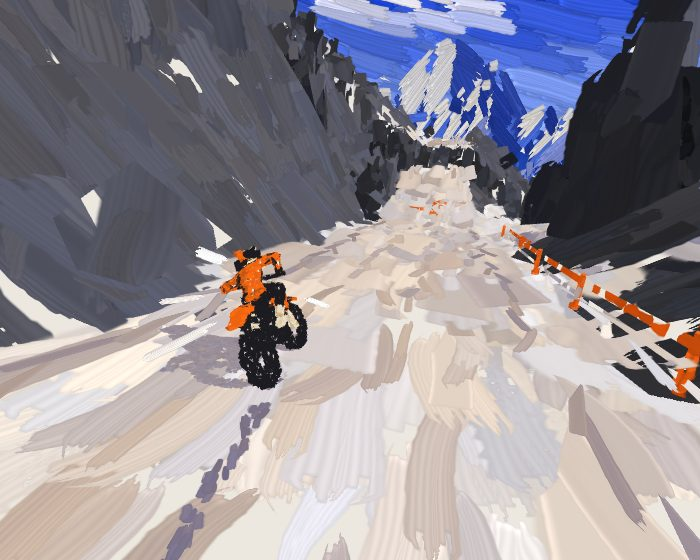
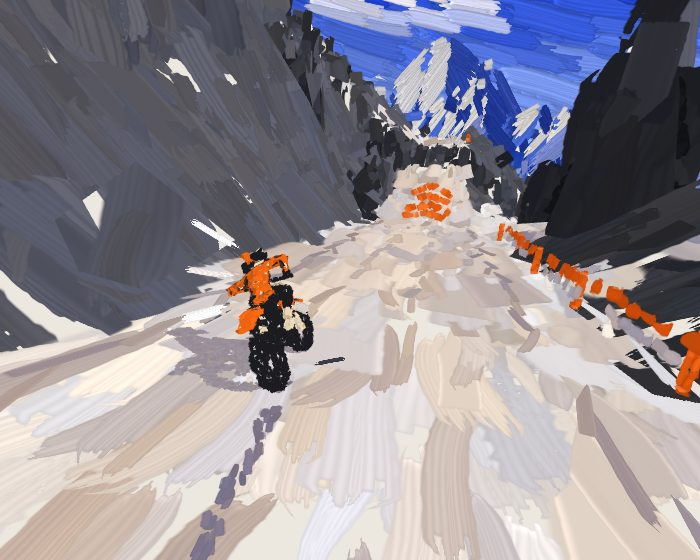
lab/switchback: things claim no depth or stencil, painted over what's behind
Fence, poles, pines, boards, flags and falls no longer occlude: no paper
holes where their strokes don't cover. Chunk strokes ordered ground, way,
things; things laid with the masses front.

Claude-Session: https://claude.ai/code/session_01XxjdrEubiC3ZZ3ppUeUc93

diff --git a/cells/lab/client/switchback/render.ts b/cells/lab/client/switchback/render.ts
@@ -17,7 +17,7 @@ import type { Rider, Event } from './sim';
 import { GEARS } from './audio';
 import { buildRuts, Trail } from './ruts';
 import { buildGouges } from './gouge';
-import { Painter, Strokes, Brush2D, strokesOver, skyStrokes, lineOf, courseStrokes, rangeStrokes, foothillStrokes, valleyStrokes, fallStrokes, flagStrokes } from './paint';
+import { STROKE, Painter, Strokes, Brush2D, strokesOver, skyStrokes, lineOf, courseStrokes, rangeStrokes, foothillStrokes, valleyStrokes, fallStrokes, flagStrokes } from './paint';
 
 const VS = `#version 300 es
 in vec4 aP; uniform mat4 uVP; uniform vec3 uOff; uniform float uZj; out vec3 vW; flat out int vM;
@@ -32,8 +32,11 @@ void main() { vec3 w = aP.xyz + uOff; vW = w - uEye; vM = int(aP.w); vT = fract(
   gl_Position.z += uZj * fract(float(gl_VertexID / 3) * .618) * gl_Position.w; }`;
 const FS = `#version 300 es
 precision highp float;
-in vec3 vW; flat in int vM; flat in float vT; uniform vec3 uPal[88]; uniform vec3 uEye; uniform vec3 uSun; uniform float uFog; out vec4 o;
+in vec3 vW; flat in int vM; flat in float vT; uniform vec3 uPal[88]; uniform vec3 uEye; uniform vec3 uSun; uniform float uFog; uniform float uNoThings; out vec4 o;
 void main() {
+  // (painted, the things standing on the ground (the fence, the poles, the pines, a kicker's boards) claim no depth and no
+  // stencil: what's behind them is painted, and their strokes over it, so a gap between their strokes shows that, not paper)
+  if (uNoThings > .5 && (vM == 3 || vM == 4 || vM == 5 || vM == 11 || vM == 17 || vM == 18 || vM == 19)) discard;
   vec3 n = normalize(cross(dFdx(vW), dFdy(vW)));
   // (the face's light, nudged by its own tone, picks one of its material's four bands)
   float l = dot(n, uSun) + (vT / .9 - .5) * .42;
@@ -119,7 +122,7 @@ export class Renderer {
     const p = gl.createProgram()!; gl.attachShader(p, sh(gl.VERTEX_SHADER, VS)); gl.attachShader(p, sh(gl.FRAGMENT_SHADER, FS)); gl.bindAttribLocation(p, 0, 'aP'); gl.linkProgram(p);
     if (!gl.getProgramParameter(p, gl.LINK_STATUS)) throw new Error(gl.getProgramInfoLog(p) ?? 'link');
     this.prog = p;
-    for (const n of ['uVP', 'uOff', 'uPal', 'uEye', 'uSun', 'uFog', 'uZj']) this.u[n] = gl.getUniformLocation(p, n);
+    for (const n of ['uVP', 'uOff', 'uPal', 'uEye', 'uSun', 'uFog', 'uZj', 'uNoThings']) this.u[n] = gl.getUniformLocation(p, n);
     gl.useProgram(p);
     gl.uniform3fv(this.u.uPal, new Float32Array(PALETTE.flat().map(hex).flat()));
     gl.uniform3fv(this.u.uSun, new Float32Array(SUN));
@@ -138,8 +141,13 @@ export class Renderer {
       const v = buildChunk(this.course, n);
       this.chunks.set(n, new Buf(this.gl, v)); budget--;
       if (this.painter) {
-        const face = strokesOver(v, this.course.seed * 1009 + n, lineOf(this.course, n * CHUNK - 6, (n + 1) * CHUNK + 6)), way = courseStrokes(this.course, n * CHUNK, (n + 1) * CHUNK), all = new Float32Array(face.length + way.length);
-        all.set(face); all.set(way, face.length);
+        const face = strokesOver(v, this.course.seed * 1009 + n, lineOf(this.course, n * CHUNK - 6, (n + 1) * CHUNK + 6)), way = courseStrokes(this.course, n * CHUNK, (n + 1) * CHUNK);
+        // (the ground's strokes and the way's first, then the things' over them: the things hold no depth, so they're
+        // painted over what's behind them by order)
+        const G: number[] = [], Th: number[] = [];
+        for (let k = 0; k < face.length; k += STROKE) (face[k + 15] > 2.5 ? Th : G).push(...face.subarray(k, k + STROKE));
+        const all = new Float32Array(G.length + way.length + Th.length);
+        all.set(G); all.set(way, G.length); all.set(Th, G.length + way.length);
         this.strokes.set(n, this.painter.make(all));
       }
     }
@@ -202,7 +210,9 @@ export class Renderer {
       const paper = hex(PAPER); gl.clearColor(paper[0], paper[1], paper[2], 1); gl.clearStencil(0); gl.clear(gl.COLOR_BUFFER_BIT | gl.STENCIL_BUFFER_BIT);
       pt.advance(r.s);
       const off = [view.eye[0], view.eye[1] - 60, view.eye[2]];
-      const near = () => { if (this.bgOnly) return; gl.uniform3f(this.u.uOff, 0, 0, 0); for (const b of this.chunks.values()) b.draw(); this.rider.set(body, true); this.rider.draw(); this.flags.set(flagsV, true); this.flags.draw(); this.falls.set(fallsV, true); this.falls.draw(); };
+      // (the ground and the rider (whose strokes, on both sides of it, need its own depth to hide its far side): the things
+      // on the ground, the flags and the falls claim no depth or stencil)
+      const near = () => { if (this.bgOnly) return; gl.uniform3f(this.u.uOff, 0, 0, 0); gl.uniform1f(this.u.uNoThings, 1); for (const b of this.chunks.values()) b.draw(); gl.uniform1f(this.u.uNoThings, 0); this.rider.set(body, true); this.rider.draw(); };
       // (where things stand, in the stencil: 2 the backdrop, 1 anything near; nothing drawn)
       gl.colorMask(false, false, false, false); gl.disable(gl.DEPTH_TEST); gl.enable(gl.STENCIL_TEST); gl.stencilOp(gl.KEEP, gl.KEEP, gl.REPLACE); gl.stencilFunc(gl.ALWAYS, 2, 0xff);
       gl.uniform1f(this.u.uFog, 0); gl.uniform3f(this.u.uOff, off[0], off[1], off[2]); this.ranges.draw(); this.valley.draw();

diff --git a/cells/lab/client/switchback/paint.ts b/cells/lab/client/switchback/paint.ts
@@ -197,7 +197,7 @@ export function strokesOver(verts: Float32Array, seed: number, line: number[] | 
       // (a flat thing lying on the ground (your track, a shadow) is laid as the ground is: flat on it, one side; a
       // standing thing, both sides, turning to the eye)
       if (flat && ny < 0) { nx = -nx; ny = -ny; nz = -nz; }
-      emit(e[0] / el, e[1] / el, e[2] / el, Ls, Ls * (flat ? 0.35 : 0.5), flat ? 2.2 : 3.2, 1, flat ? [0, 1, 11] : [0, 1, 2, 4, 8, 15], 0.35, flat ? 0.2 : 0.4, flat ? 0 : 3);
+      emit(e[0] / el, e[1] / el, e[2] / el, Ls, Ls * (flat ? 0.35 : 0.5), flat ? 2.2 : 3.2, 0, flat ? [0, 1, 11] : [0, 1, 2, 4, 8, 15], 0.35, flat ? 0.2 : 0.4, flat ? 0 : 3);
       continue;
     }
     // (the face's normal: up, or (a steep face) toward the road it's seen from)

diff --git a/cells/lab/static/switchback.md b/cells/lab/static/switchback.md
@@ -119,6 +119,7 @@ An experiment in drawing the mountain as paint, after looking closely at a brush
 - **Nothing pops.** A stroke whose turn to be thinned out with distance comes shrinks away rather than going at once. What's built afresh each frame keeps its strokes: the rider by its faces, the flags and the falls by where they are; the gouges aren't painted (they're cut to the eye, so their faces change as you ride), the road's own strokes running along it instead.
 - **The speed in the marks, near the eye.** Within about 14 m of the eye (gone by 30 m), at pace every stroke turns, on its own face, toward the way the eye is going and draws out by as far as the eye goes in a moment (the eye's smoothed motion in the world: one way for every stroke, so they hold steady), so the ground and the rock just round you fall into line and stream past; further off the subject alone lays each stroke (`stretch=0` none, `stretch=2` twice). Your track and the rider's shadow are laid flat, as the ground is. The shadow lies on the road ahead and behind where it falls, not on a level plane at the rider's feet (which a slope going away left standing in the air).
 - **Strokes the course calls for.** Laid deliberately from the course, not scattered over faces, each lying on the surface (its normal the surface's own there): the road's two edges in long strokes following it, the drop's lip as a lit edge of snow, and the **ruts**, the worn lines down the road as `ruts.ts` has them, a step darker than the road (the gouges, cut to the eye each frame, can't be painted; these are the same lines, fixed to the course). No wall-foot shade: those strokes spiked out of the slope rather than lying on it. The rider's shadow is painted, flat on the road where it falls.
+- **No occlusion holes.** Only the ground and the rider claim depth and the stencil. The things standing on the ground (the fence, the poles, the pines, a kicker's boards), the flags and the falls claim neither: what's behind them is painted (the ground, the ranges, the sky), and their strokes over it, so a gap between their strokes shows what's behind, never paper. In each chunk the ground's strokes and the way's are laid first, the things' after them, by order; and the things are laid with the masses' front, not the detail's, so they're there as soon as the ground they stand on is. (The rider keeps its depth: its strokes are on both sides of it, and its own depth hides its far side.)
 - **Flags.** Painted by how far off they are. Near (within about 25 m, gone by 40): strokes riding the cloth, four rows from the pole to the free end, four along each, each tied to its own place on the cloth rather than to a facet (painted facet by facet, their strokes were reshaped every frame and shimmered), so they move with the wave and hold still on it; the wave in their colour, lit or in shade as the cloth turns to the sun. Far (from about 20 m): the banner one gesture, a flick from the pole's top out along it, whipping thin, and a shorter one over it, an orange mark on a pole that reads from far ahead. Between, one fades into the other. The pole is one dark upright stroke. (Seed 1 has flags at 155, 527, 899, 1395.)
 - **Waterfalls.** Not a ribbon but strokes in several sheets, one in front of another: the back one lilac-grey and dense (the water in shadow, covering the fall), white over it, a few pale blue in front; each a run of streaks sliding down the fall's arc with the water, drawn out by how fast it's falling where it is (short at the lip, long below), growing as it comes over and shrinking as it lands; a few strokes across the lip, glassy; spray at the foot, dabs thrown up and out, growing and fading. Built each frame, every streak keeping its place in the flow, so it moves with the water rather than flickering. (`at=<station>` puts you on the line at a station, for looking at a place: seed 1 has falls at 621, 813, 1186, 1629.)
 - **The far off.** In layers that recede, each further one hazed toward the sky's pale horizon: a snow massif (its crest broken by sub-summits and notches all along, not a row of cones), a nearer snowy range, a range of blue hills, four arcs of forested hills nearer, taller and darker the nearer, overlapping so they stack up the middle distance (the valley opening between them), then the valley's floor and its forested foothills. Under each summit a spur runs down toward you, wandering, with a branch or two leaving it down and outward (a shoulder sends a shorter one); under the crest the nearest spur decides a stroke's plane: the side of it the stroke is on faces that way, lit on the left, shaded on the right, the strokes running down and away from it, so the mountain splits into chevrons at more than one scale, and snow runs down the spurs' crests below the snow line. A stroke turns down a spur's plane only where its head, wherever it lands, stays under the crest there, and a stroke along the crest stays within its segment (run on, it carried on up past the summit). Each plane is one colour, decided when it's planned (lit or in shade by its side, snow or not), with a neighbouring colour streaked in now and then, and its strokes long: calm planes, not a flicker of light and dark stroke by stroke. A forest is painted over its hill's lower slopes: a dense dark band, its top serrated with close-set treetops, rising and falling along the hill. Each layer is painted by its form, not its faces: its crest simplified to the segments that matter (a summit, a shoulder, a long saddle), each segment painted in rows under it, every stroke sized by its segment, so a long flat saddle is a few long level strokes, not hundreds of identical ones (they made a ruled band of hatching), and a steep flank many shorter ones along the ridge, turning down the fall lower down; the strokes along the crest cut the skyline clean. Snow in streaks along the ridges and down the gullies above the snow line, warm where it's lit. Lit as a painter lights the far off, not by the sun: from the left of the way you look, so a peak always shows a lit flank and one in shade (by the sun, half the peaks were backlit). Painted in order, not by depth: the sky everywhere, the layers farthest first over it, so their strokes run over the skyline as a brush does; the valley's floor by depth (fields in patches of ochre, lavender and blues, laid level round the eye, broader further off; the river a thin pale line along it); the foothills over that, a dark forest band along each one's foot, its top ragged with treetops. The sky deepens from a pale horizon to the top in long calm strokes on one slant, with a few clouds, each a cluster of pale strokes lit above and shaded under. `bg=yaw,pitch,fov` shows the backdrop alone.
